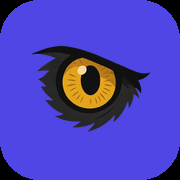
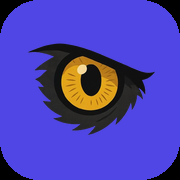
feat(v95): icone safe=0.98 — olho quase sem margem

Changed region(s): [[0.1389, 0.2222, 0.8611, 0.75]]

diff --git a/index.html b/index.html
@@ -10,7 +10,7 @@
 <!-- Force-update: unregister → re-register → SW ready → reload -->
 <script>
   (function() {
-    var V = '94';
+    var V = '95';
     if (localStorage.getItem('_visao_build') !== V) {
       localStorage.setItem('_visao_build', V);
       if ('caches' in window) {
@@ -43,7 +43,7 @@
 <meta name="apple-mobile-web-app-status-bar-style" content="black-translucent">
 <meta name="apple-mobile-web-app-title" content="Falcon">
 <meta name="mobile-web-app-capable" content="yes">
-<link rel="stylesheet" href="css/styles.css?v=20260708i">
+<link rel="stylesheet" href="css/styles.css?v=20260708j">
 <style>.onboarding-logo,.ajustes-avatar{background:#4f46e5!important}</style>
 <script>
   // Aplica tema ANTES de qualquer render — evita flash de tema errado
@@ -61,11 +61,11 @@
 <body>
   <div id="app">
     <div style="padding:80px 20px;text-align:center;color:var(--muted)">
-      <img src="icons/icon-192.png?v=93" style="width:64px;height:64px;border-radius:18px;display:block;margin:0 auto 14px;object-fit:cover;">
+      <img src="icons/icon-192.png?v=94" style="width:64px;height:64px;border-radius:18px;display:block;margin:0 auto 14px;object-fit:cover;">
       <div>Carregando Falcon...</div>
     </div>
   </div>
-  <script type="module" src="js/main.js?v=20260708i"></script>
+  <script type="module" src="js/main.js?v=20260708j"></script>
 
   <!-- Registro do Service Worker (PWA) -->
   <script>

diff --git a/js/screens/welcome.js b/js/screens/welcome.js
@@ -6,7 +6,7 @@ import { setProfile, seedOrganizacaoPessoal } from '../store.js';
 export function renderWelcome(app) {
   app.innerHTML = `
     <div class="onboarding">
-      <div class="onboarding-logo" style="background:#4f46e5"><img src="icons/icon-192.png?v=93" style="width:100%;height:100%;object-fit:cover;border-radius:inherit;display:block;"></div>
+      <div class="onboarding-logo" style="background:#4f46e5"><img src="icons/icon-192.png?v=94" style="width:100%;height:100%;object-fit:cover;border-radius:inherit;display:block;"></div>
       <div class="onboarding-title">Falcon</div>
       <div class="onboarding-sub" style="font-weight:600;color:var(--accent-2);margin-bottom:6px">Bem-vindo!</div>
       <div class="onboarding-sub">Conta criada. Escolha um template pra começar.</div>

diff --git a/js/screens/modalidade.js b/js/screens/modalidade.js
@@ -18,7 +18,7 @@ export function renderModalidade(app) {
 
   app.innerHTML = `
     <div class="onboarding modalidade-screen">
-      <div class="onboarding-logo" style="background:#4f46e5"><img src="icons/icon-192.png?v=93" style="width:100%;height:100%;object-fit:cover;border-radius:inherit;display:block;"></div>
+      <div class="onboarding-logo" style="background:#4f46e5"><img src="icons/icon-192.png?v=94" style="width:100%;height:100%;object-fit:cover;border-radius:inherit;display:block;"></div>
       <div class="onboarding-title">Falcon</div>
       <div class="onboarding-sub" style="font-weight:600;color:var(--accent-2);margin-bottom:6px">
         ${t('modal.hello', { name: escapeHtml(firstName) })}

diff --git a/js/screens/ajustes.js b/js/screens/ajustes.js
@@ -31,7 +31,7 @@ export async function renderAjustes(app) {
         </div>
 
         <div class="ajustes-account">
-          <div class="ajustes-avatar" style="background:#4f46e5"><img src="icons/icon-192.png?v=93" style="width:100%;height:100%;object-fit:cover;border-radius:inherit;display:block;"></div>
+          <div class="ajustes-avatar" style="background:#4f46e5"><img src="icons/icon-192.png?v=94" style="width:100%;height:100%;object-fit:cover;border-radius:inherit;display:block;"></div>
           <div class="ajustes-account-info">
             <strong>${escape(email)}</strong>
             <small>${t('ajustes.plan')}</small>

diff --git a/sw.js b/sw.js
@@ -6,13 +6,13 @@
 //   - Firebase/CDN → sempre rede (não cacheia)
 // ═══════════════════════════════════════════════════════════════
 
-const CACHE_NAME = 'visao-v94';
+const CACHE_NAME = 'visao-v95';
 const CORE_ASSETS = [
   './',
   './index.html',
   './css/styles.css',
   './manifest.json',
-  './icons/icon-192.png?v=93',
+  './icons/icon-192.png?v=94',
   './icons/icon-512.png',
   './icons/apple-touch-icon.png',
   './icons/favicon-32.png',

diff --git a/js/screens/login.js b/js/screens/login.js
@@ -7,7 +7,7 @@ import { showToast } from '../toast.js';
 export function renderLogin(app) {
   app.innerHTML = `
     <div class="login-screen">
-      <div class="login-logo"><img src="icons/icon-192.png?v=93" alt="Falcon" style="width:100%;height:100%;object-fit:cover;display:block;"></div>
+      <div class="login-logo"><img src="icons/icon-192.png?v=94" alt="Falcon" style="width:100%;height:100%;object-fit:cover;display:block;"></div>
       <div class="login-title">Falcon</div>
       <div class="login-sub">Assistente pessoal de planejamento estratégico</div>
 

diff --git a/js/screens/signup.js b/js/screens/signup.js
@@ -6,7 +6,7 @@ import { recordTerms } from '../consent.js';
 export function renderSignup(app) {
   app.innerHTML = `
     <div class="login-screen">
-      <div class="login-logo"><img src="icons/icon-192.png?v=93" alt="Falcon" style="width:100%;height:100%;object-fit:cover;display:block;"></div>
+      <div class="login-logo"><img src="icons/icon-192.png?v=94" alt="Falcon" style="width:100%;height:100%;object-fit:cover;display:block;"></div>
       <div class="login-title">Falcon</div>
       <div class="login-sub">Crie sua conta para começar</div>
 
